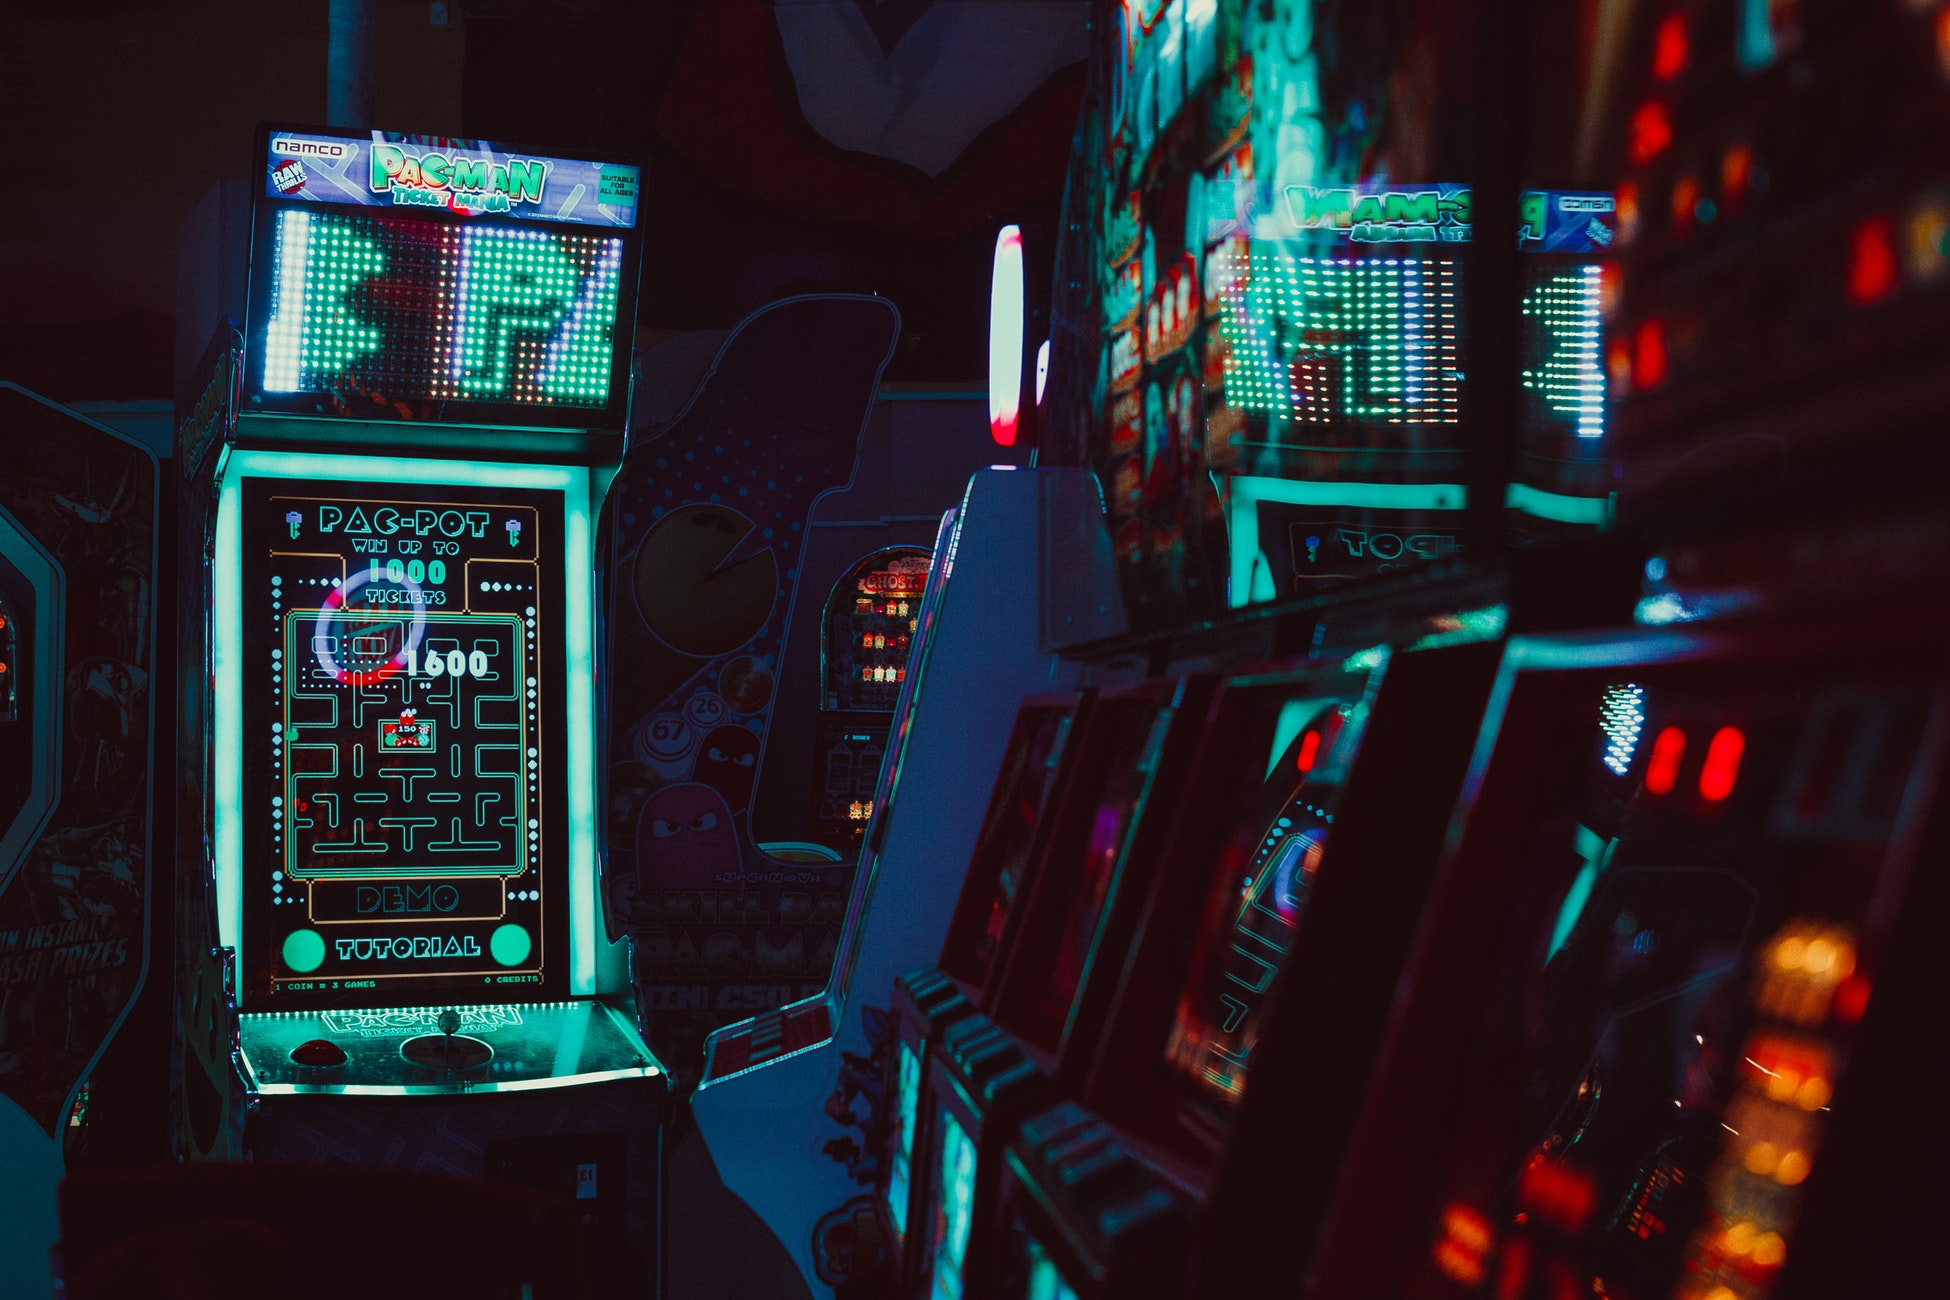
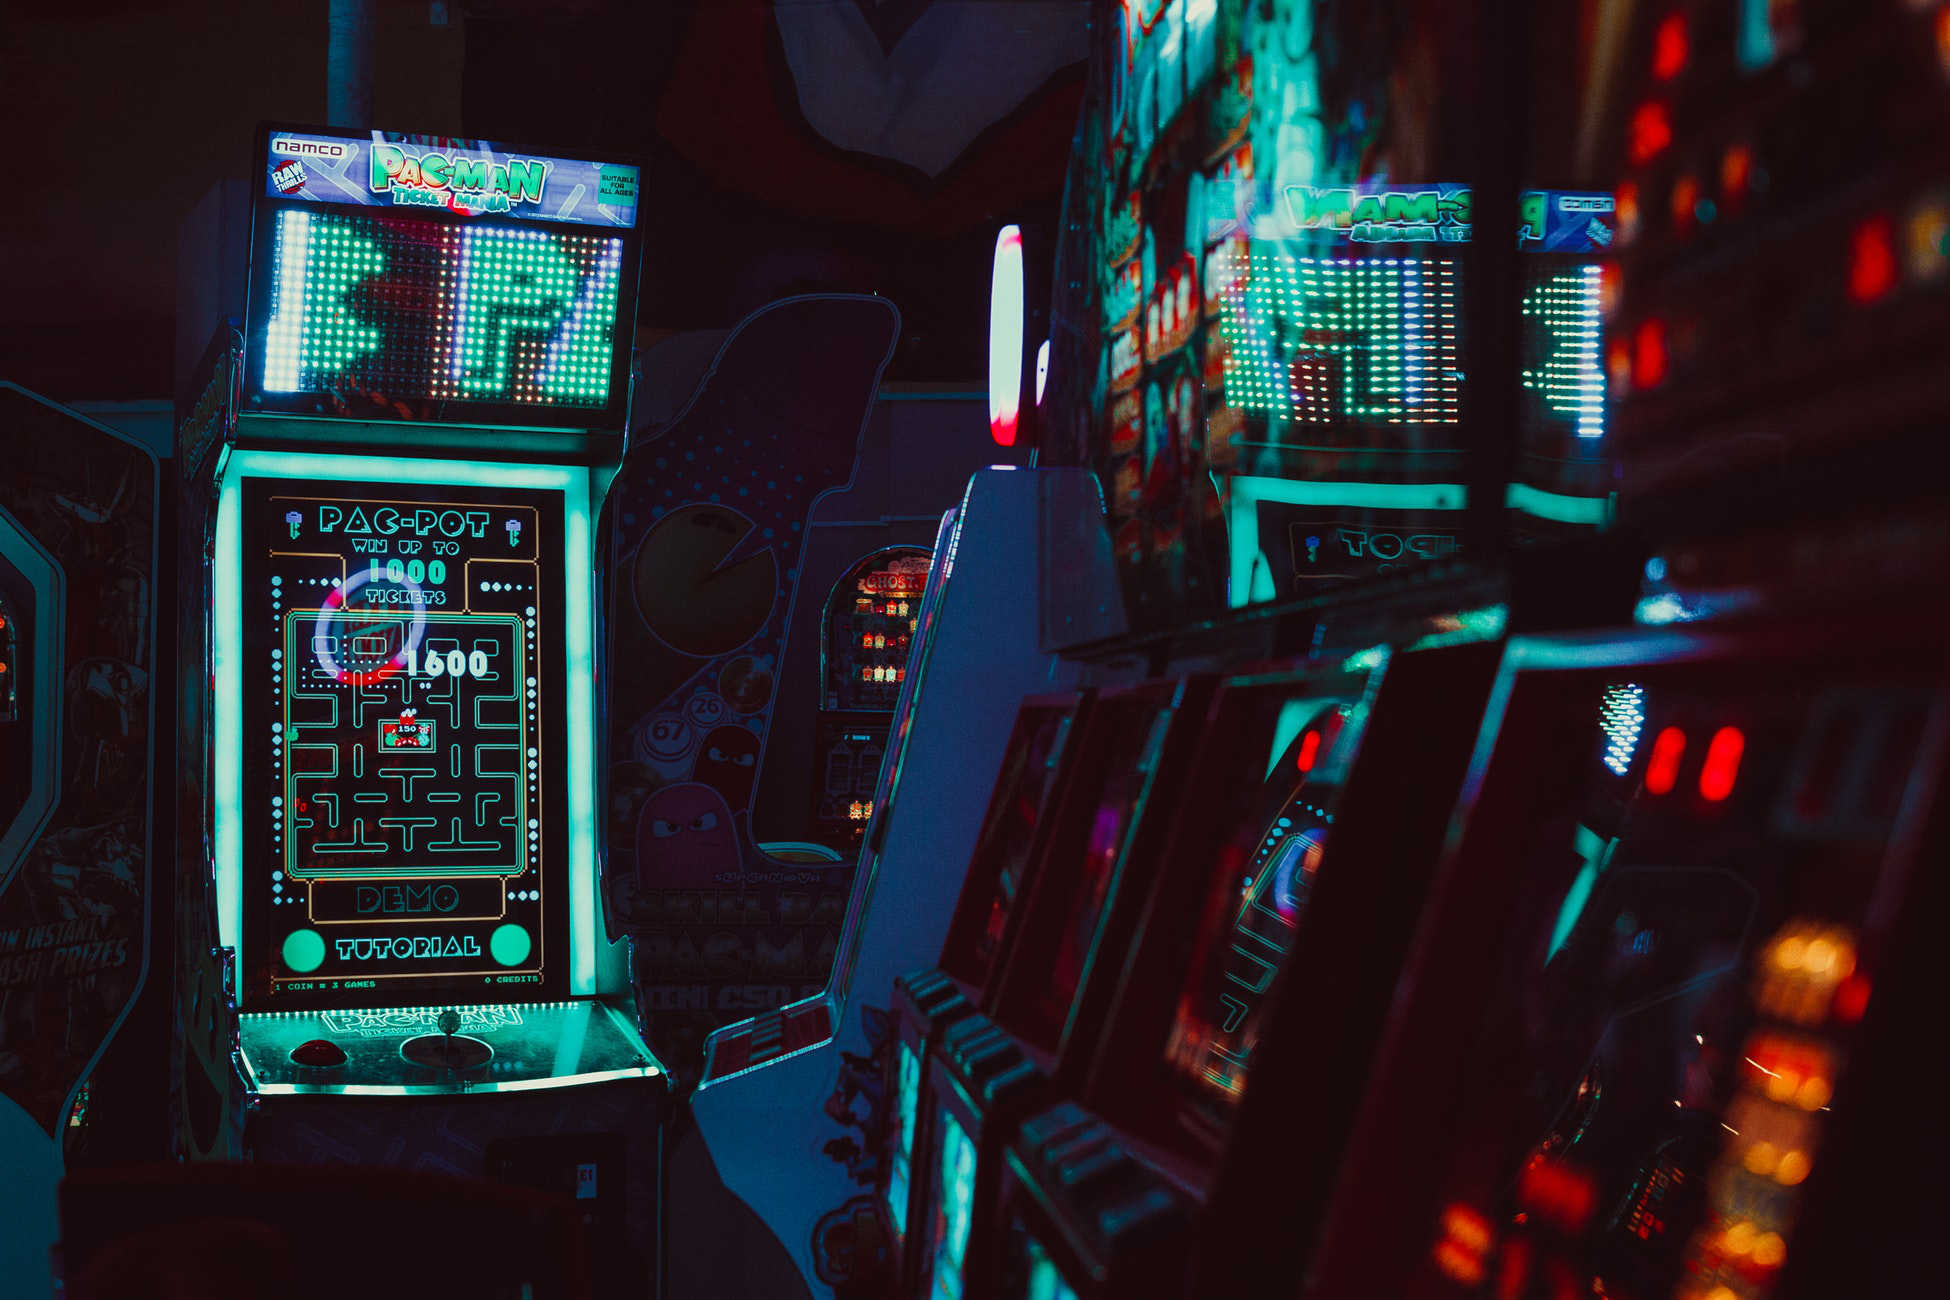
Fix grammer and compress another image

diff --git a/src/containers/Index.jsx b/src/containers/Index.jsx
@@ -24,7 +24,7 @@ class Index extends React.Component {
         <SplashScreen
           src="/images/splash.jpeg"
           header="Jake Kinsella"
-          subtitle="Developer, and aspiring entrepreneur."
+          subtitle="Developer and aspiring entrepreneur."
         />
         <br />
 
